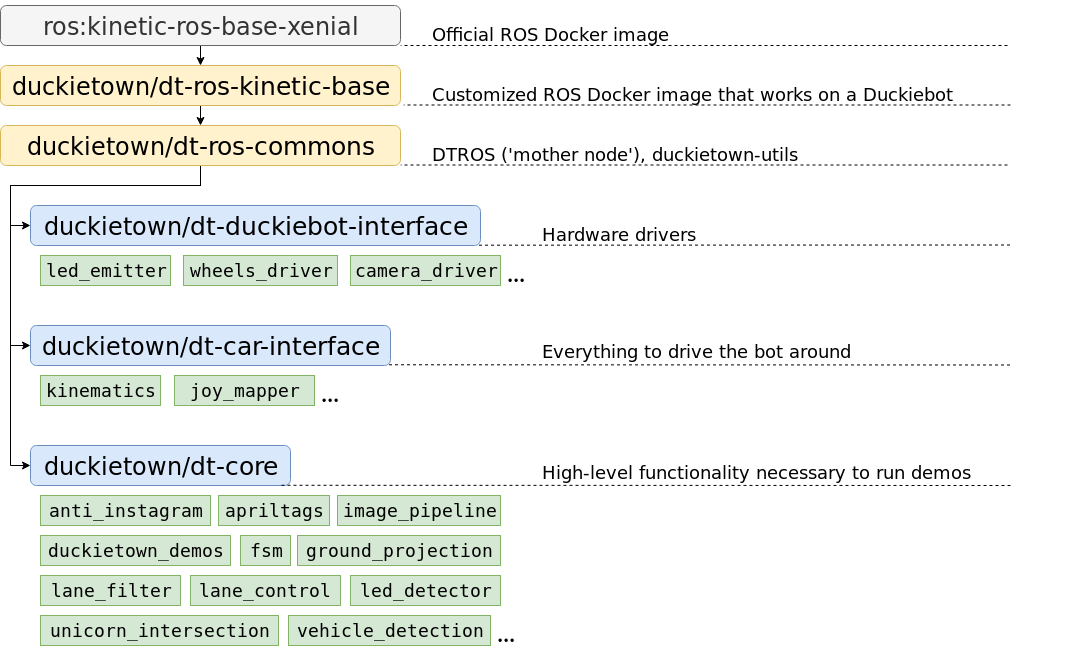
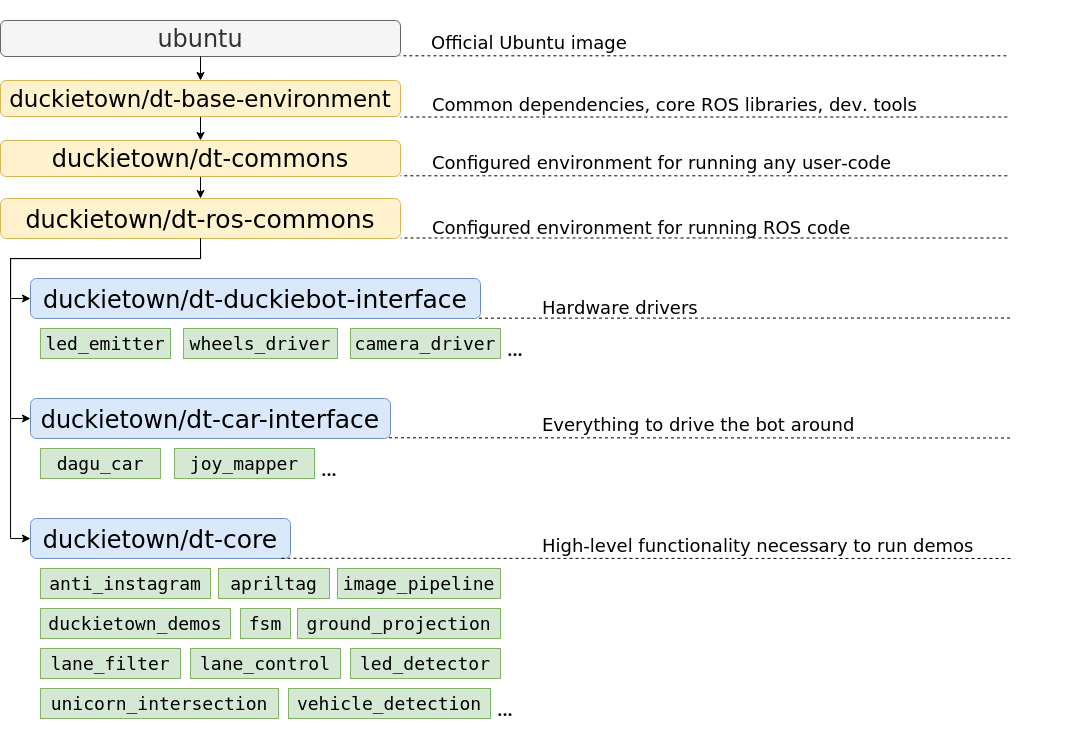
stack updated

diff --git a/book/duckietown-robotics-development/04_basic_robot_behaviors/01_duckietown_code_structure.md b/book/duckietown-robotics-development/04_basic_robot_behaviors/01_duckietown_code_structure.md
@@ -27,11 +27,19 @@ Let's first look at the bigger picture: The container hierarchy in Duckietown.
   <img style="width:30em" src="images/container_stack.png" />
 </figure>
 
-As you can see in the above image, all three of the containers actually inherit the same container. Recall that 'inheritance' in a Docker images means that the 'child' image has a `FROM` statement with the 'parent' image in its Dockerfile.
+As you can see in the above image, all three of the containers actually inherit the same container. Recall that 'inheritance' in a Docker images means that the 'child' image has a `FROM` statement with the 'parent' image in its Dockerfile. We typically say that the 'child' _is based on_ 'the parent'.
 
-The image from which everything starts is `ros:kinetic-ros-base-xenial`. It is an official ROS image that is configured to work smoothly with ROS Kinetic. Even though this image is already extremely powerful, it is not well suited to directly work on a Duckiebot. Therefore, we add a few additonal components and configure it which results in `duckietown/dt-ros-kinetic-base`.
+The image on which everything is based is `ubuntu`. It is simply the official Ubuntu image, with no added perks. Ubuntu 20.04 (Focal) is used for the `daffy` version of the Duckietown stack. Of course, as you can imagine, it is missing many key features that we would need. Also, it needs to be properly configured in order to work correctly with our software.
 
-The `duckietown/dt-ros-kinetic-base` image has everything you need in order to start developing code that directly works on your Duckiebot. However, as there are a few components that all Duckietown ROS nodes share, it is convient to package them in an image. These are `duckietown-utils` (a library with a number of useful functions), `duckietown_msgs` (a ROS package that contains all the ROS message types used in Duckietown), and `DTROS`. `DTROS` is a 'mother' node for all other nodes in Duckietown. You have already seen it while working with publishers and subscribers in [RH3](#dt-infrastructure), but we will look at it in more detail soon.
+The `duckietown/dt-base-environment` adds many of the core libraries and configurations that we need. It installs development tools such as `vim`, `git`, `nano` and libraries for handling `i2c` devices, processing images, and efficiently doing linear algebra. It adds compilers, linkers, and libraries necessary for the compiling/building of software from source. Furthermore, we add `pip` and a bunch of handy `python3` libraries, such as `numpy`, `scipy`, `matplotlib`, and `smbus` (used to communicate with motors, LEDs, etc). Finally, `duckietown/dt-base-environment` also provides the core ROS libraries, including `rospy`: ROS's Python bindings. The version of `ROS` used for the `daffy` version of the Duckietown stack is [ROS Noetic Ninjemys](http://wiki.ros.org/noetic).
+
+Then, `duckietown/dt-commons` builds on top of `duckietown/dt-base-environment`. We provide a number of Duckietown libraries here that deal with files handling, infrastructure communication, and everything else that makes our development tools run smoothly. This image configures the environment so that the hostname resolution is correctly performed also, and ensures that the environment variables pertaining to the type of the robot, its hardware, and its configuration are all properly set. It also makes sure that all Python libraries are discoverable, and that ROS is setup correctly.
+
+Building on top of it we have `duckietown/dt-ros-commons`, which has everything you need in order to start developing code that directly works on your Duckiebot. However, as there are a few components that all Duckietown ROS nodes share, it is convenient to package them in an image. These are `duckietown-utils` (a library with a number of useful functions), `duckietown_msgs` (a ROS package that contains all the ROS message types used in Duckietown), and `DTROS`. `DTROS` is a 'mother' node for all other nodes in Duckietown. You have already seen it while working with publishers and subscribers in [RH3](#dt-infrastructure), but we will look at it in more detail soon.
+
+The `duckietown/dt-ros-commons` is also the place where we keep protocols that are key for the communication between nodes found in different repositories. By placing them here, we ensure that all repositories work with the exact same protocol, and hence we prevent communication issues. Currently, the only protocol there is `LED_protocol`, which is used by the `led_emitter_node` in `dt-duckiebot-interface`, which emits LED-encoded messages, and by the `led_detector_node` in `dt-core`, which interprets the messages encoded in the LED flashing of other robots.
+
+Finally, `duckietown/dt-ros-commons` packs another handy node: the `ros_http_api_node`. It exposes the ROS environment as an HTTP API. The ROS HTTP API runs by default on any Duckietown device and allows access to ROS topics, parameters, services, nodes, etc, over HTTP, which is an extremely portable interface. This is the technology behind our web-based interfaces that communicate with ROS, such as the Duckietown Dashboard.
 
 We finally can focus on `dt-duckiebot-interface`, `dt-car-interface`, and `dt-core`. The first, 
 `dt-duckiebot-interface`, contains all the hardware drivers you need to operate your Duckiebot. In particular these are the drivers for the camera (in the `camera_driver` package), the ones for the motors (`wheels_driver`), and the LED drivers (`led_emitter`). Thanks to these nodes, you don't need to interact with low level code to control your Duckiebot. Instead, you can simply use the convenient ROS topics and services provided by these nodes.
@@ -44,7 +52,9 @@ If you are curious to see all the ROS packages available in each of these images
 
 Note: Make sure to look at the `daffy` branches of these repositories!
 
-- [`dt-ros-kinetic-base`](https://github.com/duckietown/dt-ros-kinetic-base/tree/daffy)
+- [`dt-base-environment`](https://github.com/duckietown/dt-base-environment/tree/daffy)
+
+- [`dt-commons`](https://github.com/duckietown/dt-commons/tree/daffy)
  
 - [`dt-ros-commons`](https://github.com/duckietown/dt-ros-commons/tree/daffy)
 
@@ -54,7 +64,7 @@ Note: Make sure to look at the `daffy` branches of these repositories!
 
 - [`dt-core`](https://github.com/duckietown/dt-core/tree/daffy)
 
-As you will see in the nodes, there's a lot of inline documentation provided. You can also access it [here](http://rosapi.duckietown.p-petrov.com) in a more readable form. 
+As you will see in the nodes, there's a lot of inline documentation provided. You can also access in the 'Code documentation' section [here](https://docs.duckietown.org/daffy/) in a more readable form. 
 
 Note: Unfortunately, for the moment only `dt-ros-commons`, `dt-duckiebot-interface`, and `dt-car-interface` are documented. We are working on providing similar level of documentation for `dt-core` as well.
 
